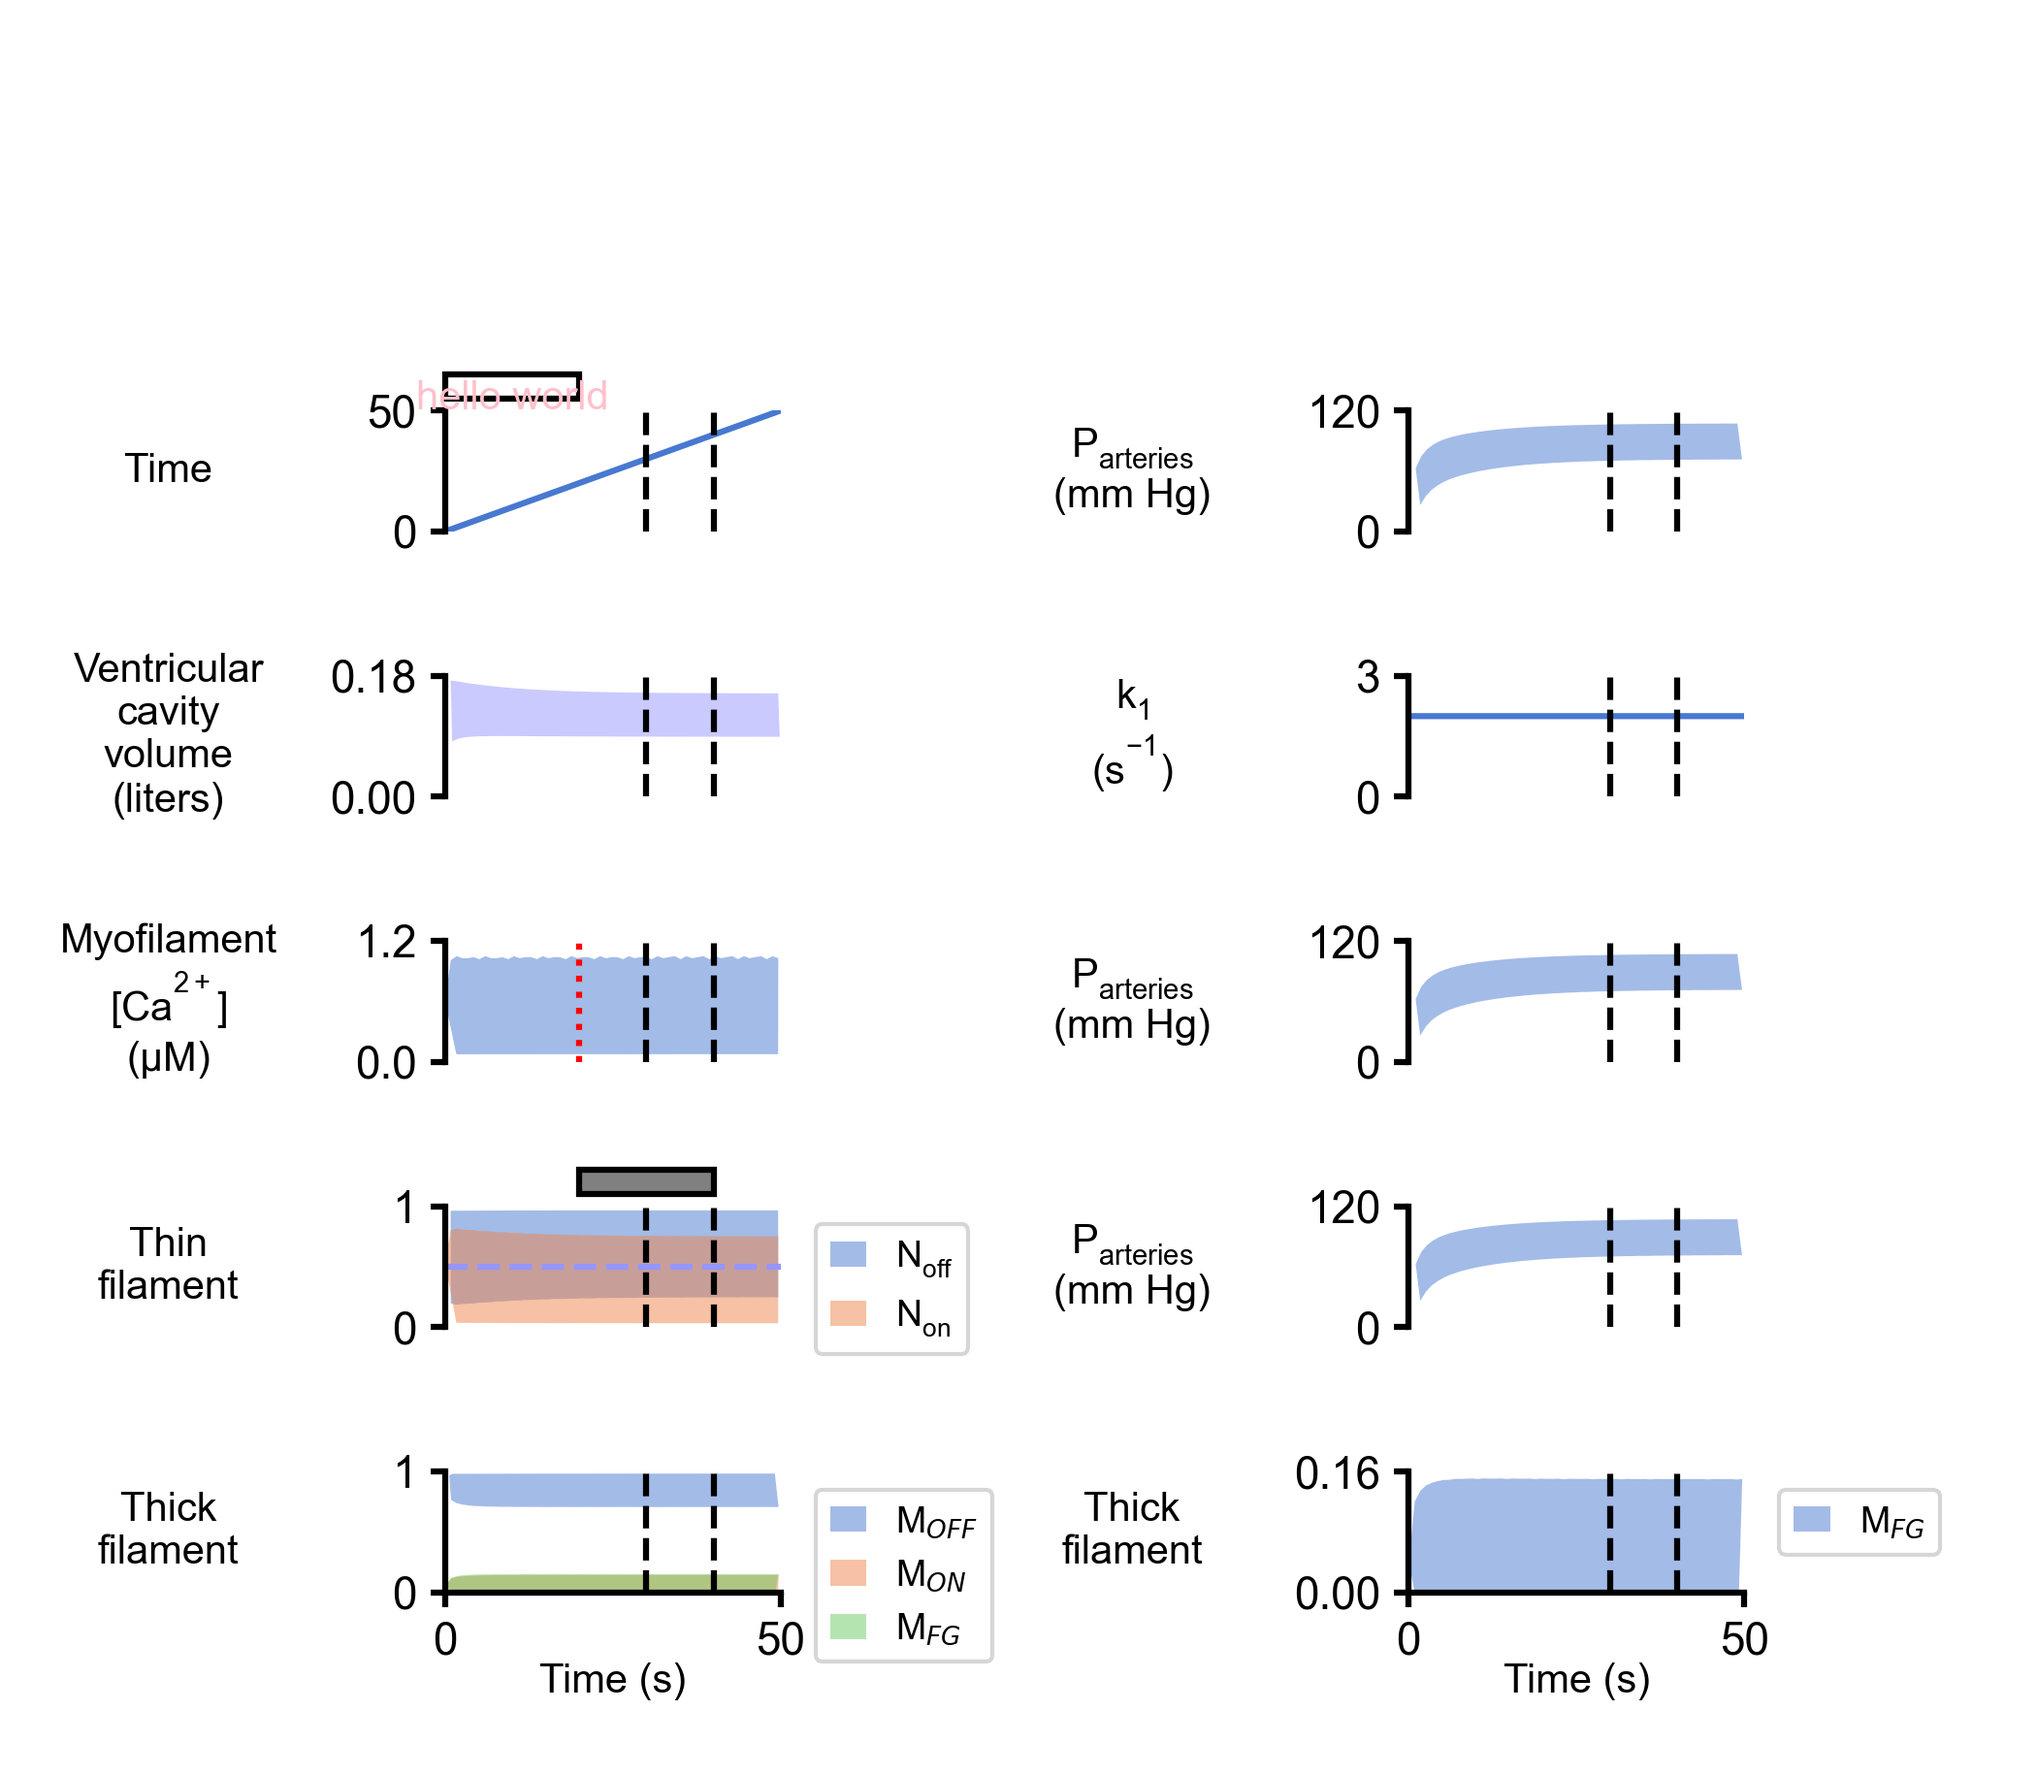
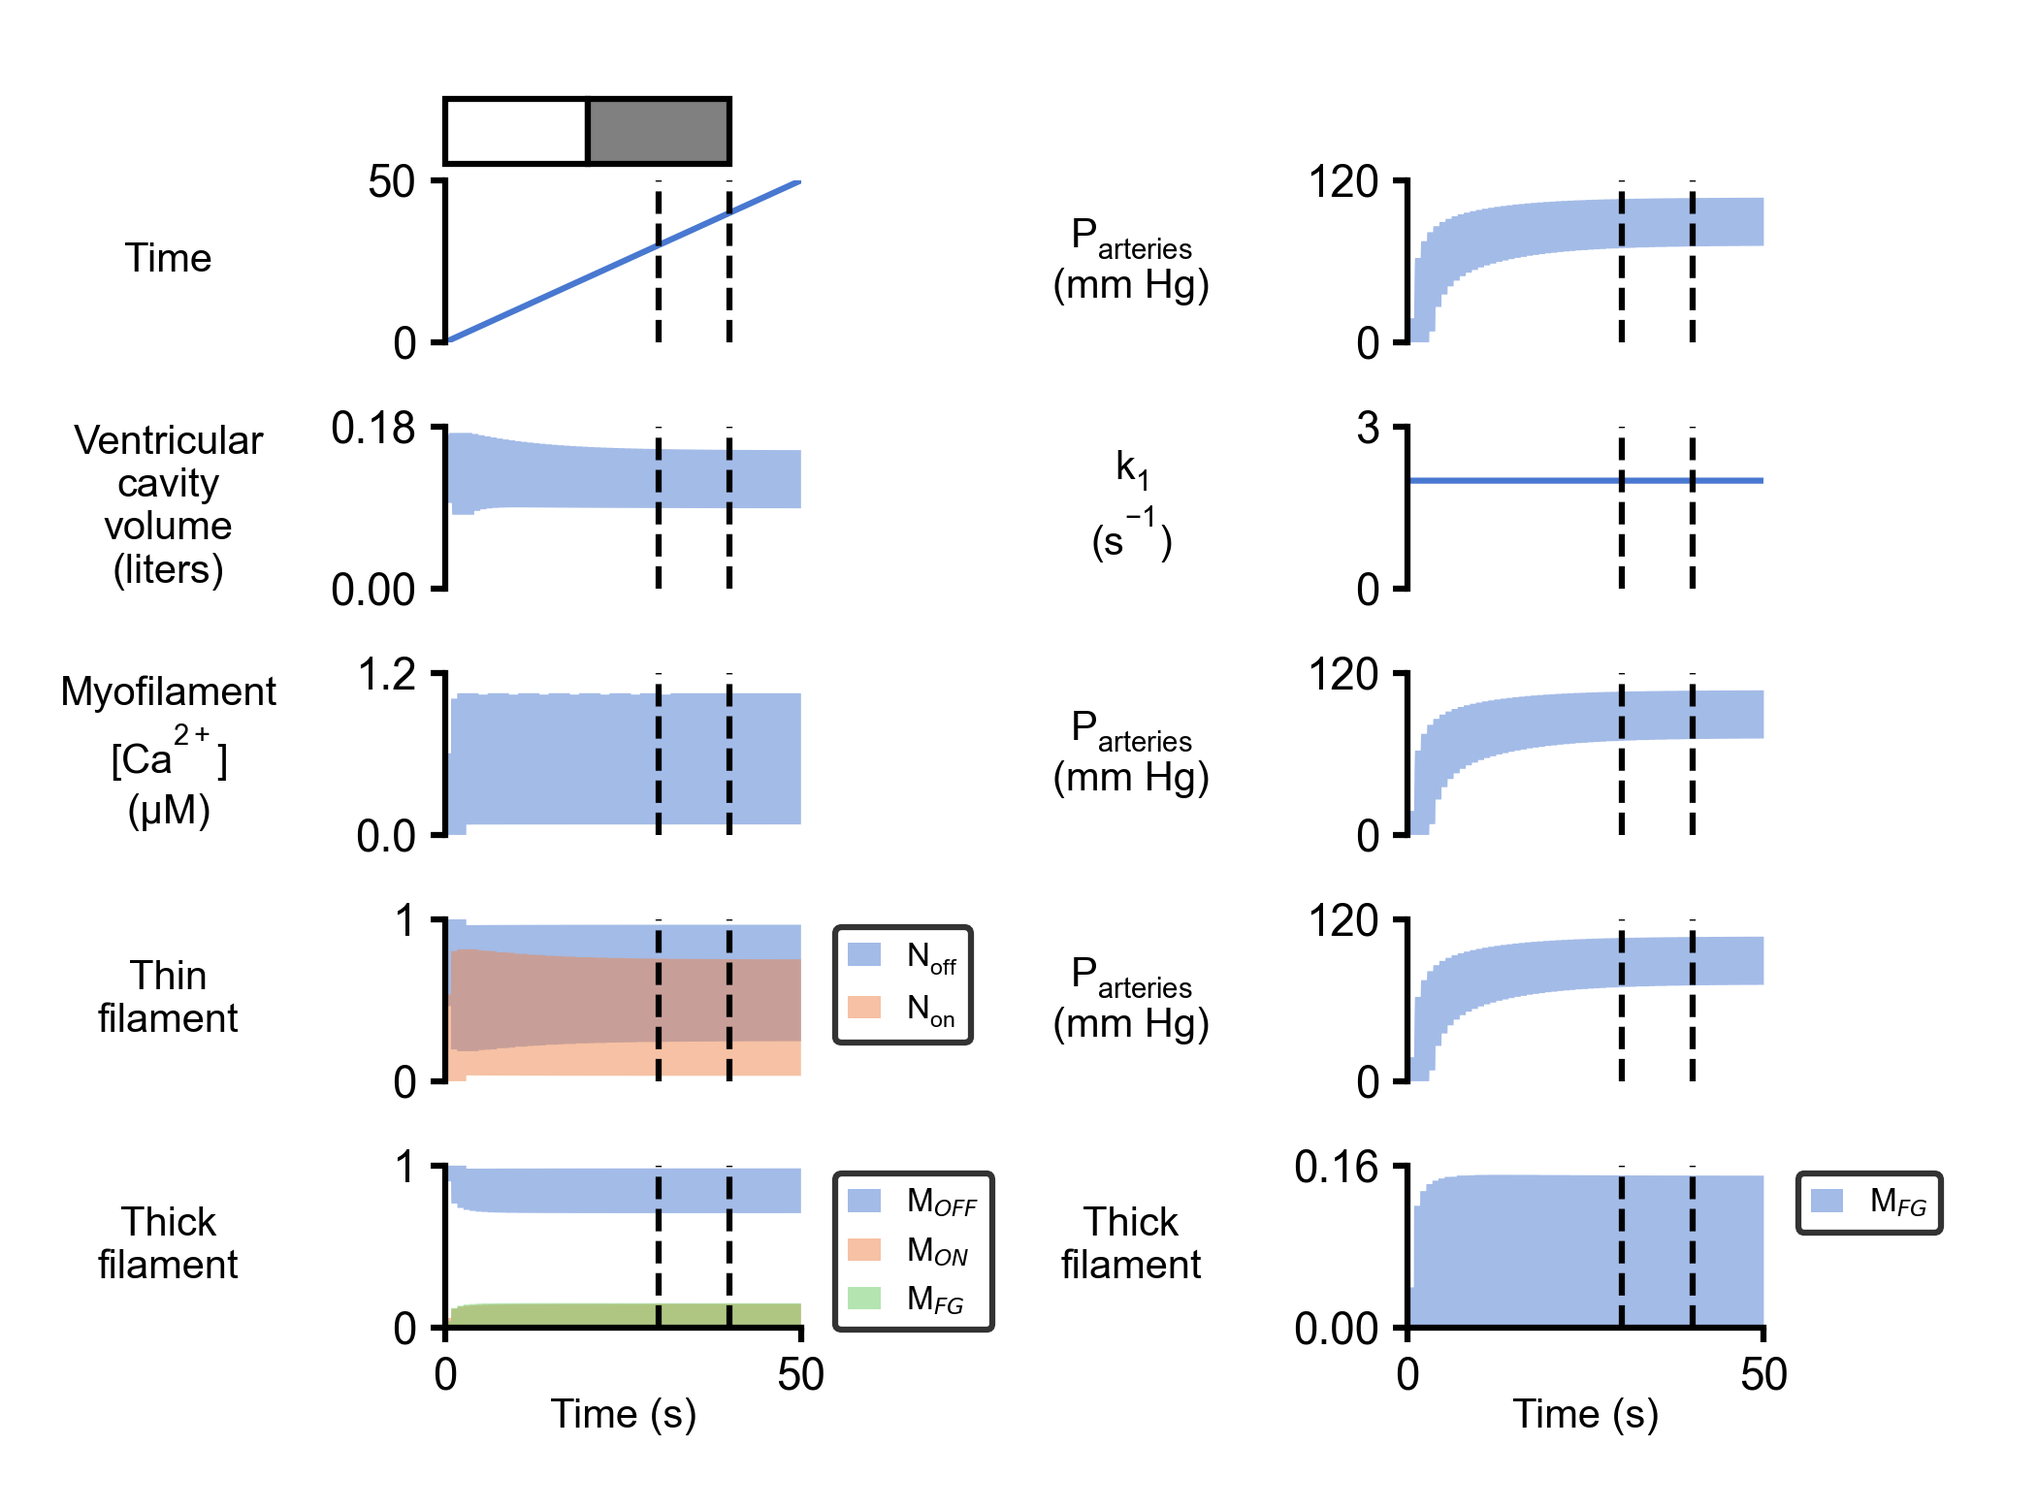
Legend frames

diff --git a/PyCMLutil/plots/multi_panel.py b/PyCMLutil/plots/multi_panel.py
@@ -74,7 +74,7 @@ def default_layout():
 
 def default_processing():
     processing = dict()
-    processing['envelope_peak_prominence'] = 0.2
+    processing['envelope_n'] = 300
 
     return processing
 
@@ -282,38 +282,35 @@ def multi_panel_from_flat_data(
                 if y_d['field_label']:
                     legend_symbols.append(
                         Line2D([0], [0],
-                               color=ax[i].lines[-1].get_color(),
-                               lw=formatting['data_linewidth']))
+                               color = ax[i].lines[-1].get_color(),
+                               lw = formatting['data_linewidth']))
                     legend_strings.append(y_d['field_label'])
 
             if (y_d['style'] == 'envelope'):
-                # y_top = pd.Series(y).rolling(nn, min_periods=1).max().to_numpy()
-                # y_bottom = pd.Series(y).rolling(nn, min_periods=1).min().to_numpy()
-                top_ind,_ = find_peaks(y, prominence =
-                                       processing['envelope_peak_prominence']*np.amax(y))
-                x_top = x[top_ind]
-                y_top = y[top_ind]
-                bot_ind,_ = find_peaks(-y, prominence =
-                                       processing['envelope_peak_prominence']*np.amax(-y))
-                x_bot = x[bot_ind]
-                y_bot = y[bot_ind]
-                y = np.concatenate((y_top, y_bot[-1:0:-1]))
-                x = np.concatenate((x_top, x_bot[-1:0:-1]))
-                xy = [x,y]
-                xy = np.array(np.array(xy).transpose())
+                # Hold the maximum and minimum values
+                y_top = pd.Series(y).rolling(processing['envelope_n'],
+                                             min_periods=1).max().to_numpy()
+                y_bot = pd.Series(y).rolling(processing['envelope_n'],
+                                             min_periods=1).min().to_numpy()
+                yp = np.hstack((y_top, y_bot[::-1], y_top[0]))
+                xp = np.hstack((x, x[::-1], x[0]))
+                xy = np.vstack((xp,yp))
+                xy = np.array(np.array(xy).transpose());
                 if 'field_color' in y_d:
                     col = y_d['field_color']
                 else:
                     col = colors[patch_counter]
-                polygon = pat.Polygon(xy, True, clip_on=False,
-                                      fc=col,
-                                      alpha=formatting['patch_alpha'])
+                polygon = pat.Polygon(xy = xy,
+                                      closed = True,
+                                      clip_on = False,
+                                      fc = col,
+                                      alpha = formatting['patch_alpha'])
                 ax[i].add_patch(polygon)
 
                 if y_d['field_label']:
                     legend_symbols.append(
-                        Patch(facecolor=col,
-                            alpha=formatting['patch_alpha']))
+                            Patch(facecolor = col,
+                                  alpha =formatting['patch_alpha']))
                     legend_strings.append(y_d['field_label'])
 
                 patch_counter = patch_counter+1
@@ -378,8 +375,8 @@ def multi_panel_from_flat_data(
 
         # Add legend if it exists
         if legend_symbols:
-            ax[i].legend(legend_symbols, legend_strings,
-                         loc=formatting['legend_location'],
+            leg = ax[i].legend(legend_symbols, legend_strings,
+                         loc = formatting['legend_location'],
                          handlelength = formatting['legend_handlelength'],
                          bbox_to_anchor=(formatting['legend_bbox_to_anchor'][0],
                                          formatting['legend_bbox_to_anchor'][1]),
@@ -387,6 +384,8 @@ def multi_panel_from_flat_data(
                                'size': formatting['legend_fontsize']},
                          ncol = int(np.ceil(len(legend_symbols)/
                                             formatting['max_rows_per_legend'])))
+            leg.get_frame().set_linewidth(formatting['axis_linewidth'])
+            leg.get_frame().set_edgecolor("black")
         handle_annotations(template_data, ax[i], i, formatting)
     # Tidy overall figure
     # Move plots inside margins
